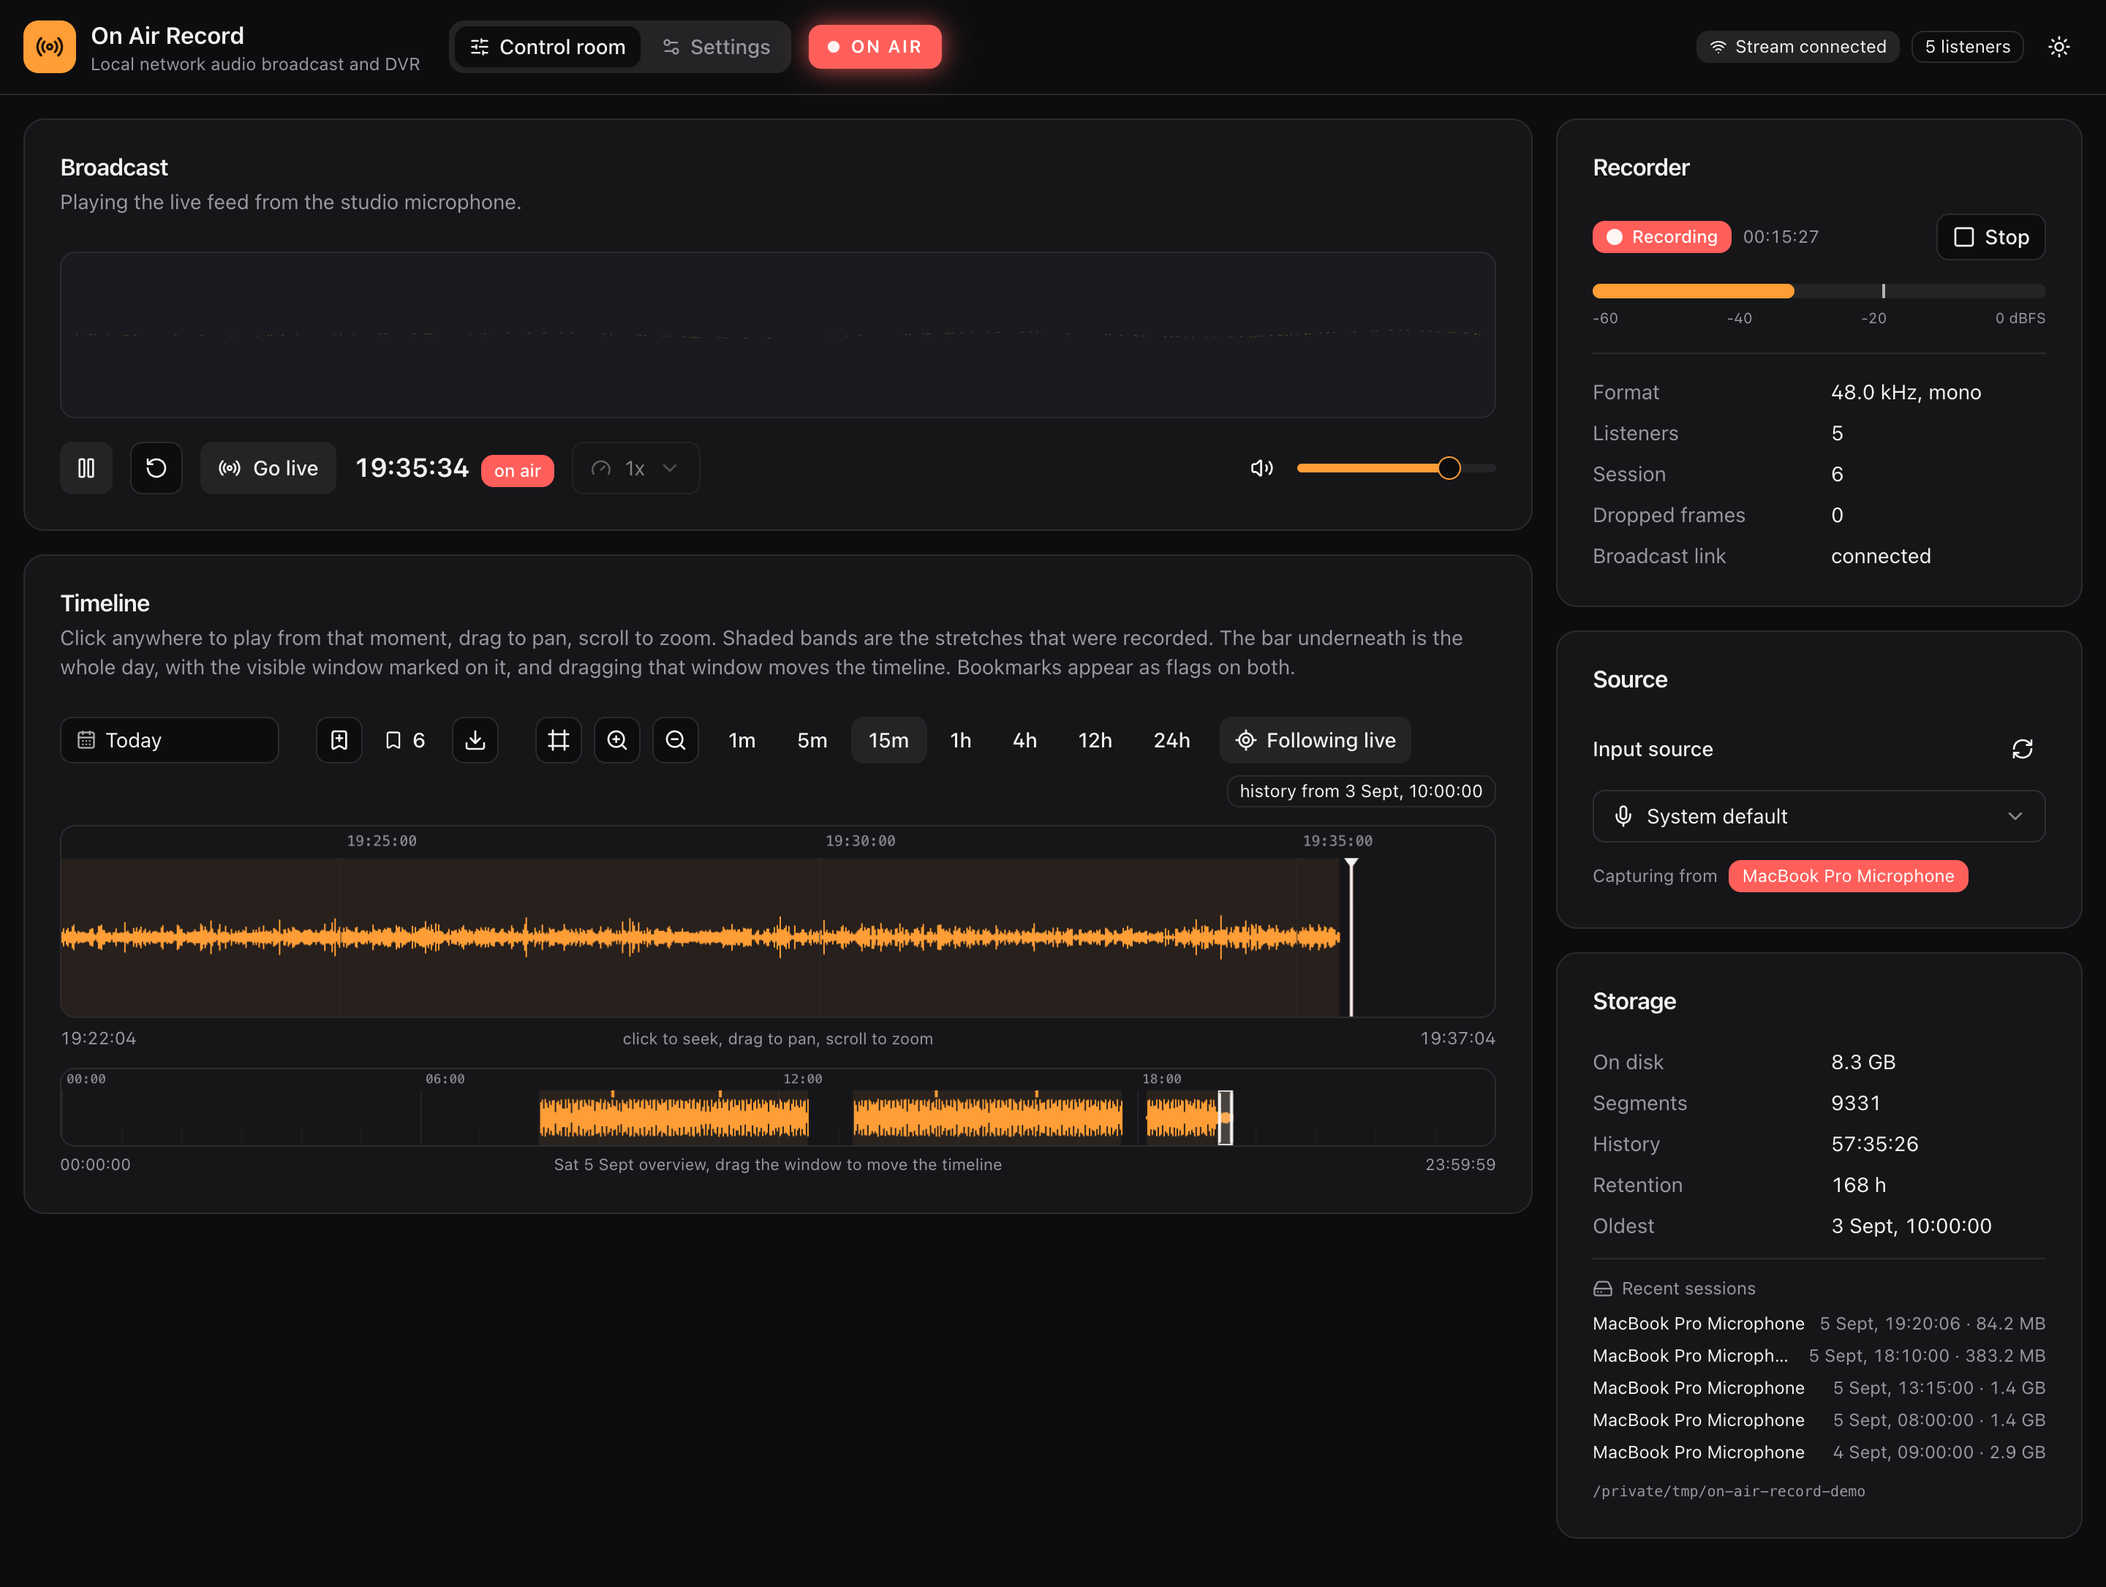
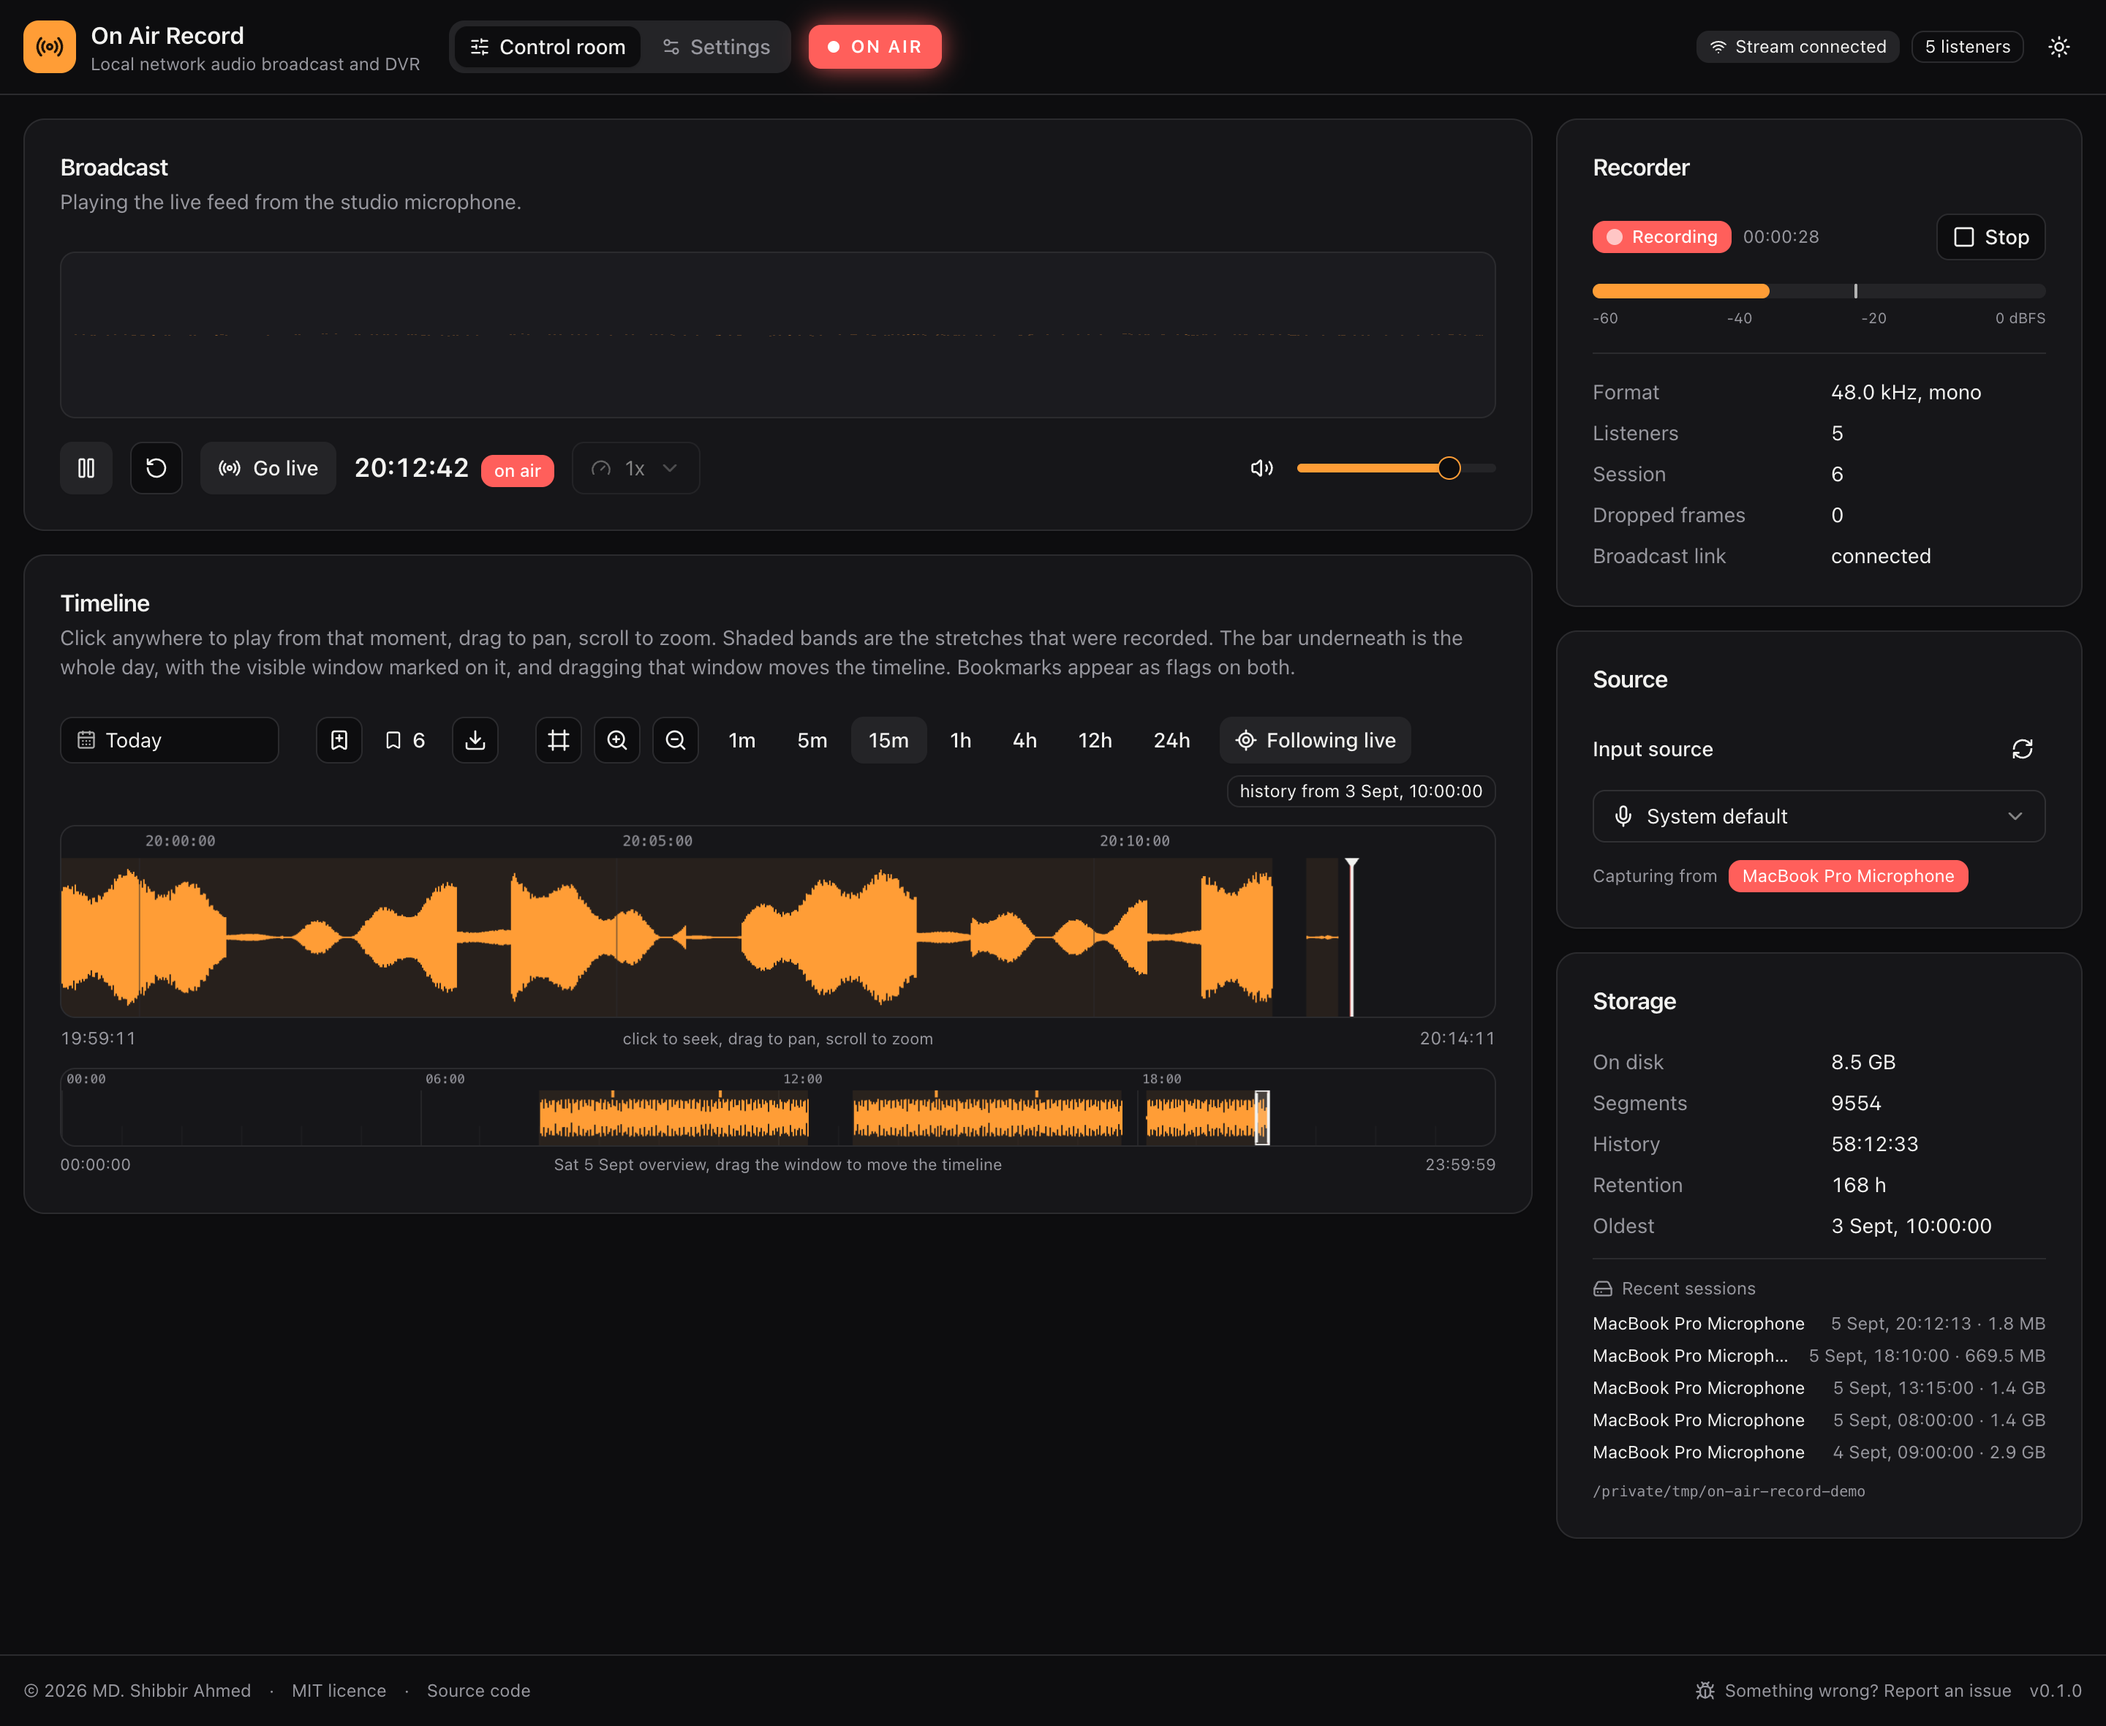
feat:[OAR-44] add attribution, licence and an issue link to the UI and the docs
A footer strip now runs along the bottom of every page: copyright and a link to the author's portfolio,
the licence, a link to the source, a link to the issue tracker, and the running version.

The version is there rather than behind a dialogue because it is the first thing any bug report needs and
this is the page the reporter already has open. It comes from the health endpoint, fetched once through
the status store rather than polled, since it cannot change without the process restarting. The shell
became a flex column with a growing outlet so the strip sits at the bottom of a short page instead of
floating half way up it, and the issue link only pushes right once there is room for a single row, or a
wrapped footer on a phone would right align its whole second line.

A LICENSE file now exists. The README claimed MIT with nothing to back it. It is included in every release
archive alongside the README, and both package manifests gained the author, licence, repository and issue
tracker metadata that was missing.

README, the user guide and the setup guide each gained a section on where to report a problem and what to
put in the report, and a credits section. The four screenshots the footer appears in were recaptured, and
a close up of the strip itself was added to the user guide.

diff --git a/frontend/src/components/AppFooter.tsx b/frontend/src/components/AppFooter.tsx
@@ -1,0 +1,69 @@
+/**
+ * Attribution, licence, and where to report a fault.
+ *
+ * The version is here rather than hidden in a dialogue because it is the first thing anybody asks for in a
+ * bug report, and this is the page the reporter already has open.
+ */
+
+import { Bug } from 'lucide-react';
+import { useEffect } from 'react';
+
+import { useStatusStore } from '@/store/useStatusStore';
+
+const AUTHOR = 'MD. Shibbir Ahmed';
+const PORTFOLIO_URL = 'https://shibbirweb.github.io';
+const REPOSITORY_URL = 'https://github.com/shibbirweb/on-air-record';
+const ISSUES_URL = `${REPOSITORY_URL}/issues`;
+
+/** Resolved once at load. The page is never open long enough for a new year to matter. */
+const YEAR = new Date().getFullYear();
+
+const LINK = 'hover:text-foreground underline-offset-4 transition-colors hover:underline';
+
+export function AppFooter() {
+  const version = useStatusStore((state) => state.version);
+  const loadVersion = useStatusStore((state) => state.loadVersion);
+
+  // Once, not polled: the version cannot change without the process restarting, which drops the socket
+  // and reloads the page anyway.
+  useEffect(() => {
+    void loadVersion();
+  }, [loadVersion]);
+
+  return (
+    <footer className="mt-2 border-t">
+      <div className="text-muted-foreground mx-auto flex max-w-[1600px] flex-wrap items-center gap-x-3 gap-y-1 px-4 py-4 text-xs">
+        <span>
+          &copy; {YEAR}{' '}
+          <a href={PORTFOLIO_URL} target="_blank" rel="noreferrer noopener" className={LINK}>
+            {AUTHOR}
+          </a>
+        </span>
+
+        <span aria-hidden="true">&middot;</span>
+        <span>MIT licence</span>
+
+        <span aria-hidden="true">&middot;</span>
+        <a href={REPOSITORY_URL} target="_blank" rel="noreferrer noopener" className={LINK}>
+          Source code
+        </a>
+
+        <a
+          href={ISSUES_URL}
+          target="_blank"
+          rel="noreferrer noopener"
+          className={`${LINK} flex items-center gap-1.5 sm:ml-auto`}
+        >
+          <Bug className="size-3.5" />
+          Something wrong? Report an issue
+        </a>
+
+        {version !== null && (
+          <span className="tabular" title="The version to quote in a bug report">
+            v{version}
+          </span>
+        )}
+      </div>
+    </footer>
+  );
+}

diff --git a/frontend/src/components/AppShell.tsx b/frontend/src/components/AppShell.tsx
@@ -9,6 +9,7 @@
 import { Radio, Settings2, SlidersHorizontal, Wifi, WifiOff } from 'lucide-react';
 import { NavLink, Outlet, useOutletContext } from 'react-router';
 
+import { AppFooter } from '@/components/AppFooter';
 import { OnAirSign } from '@/components/OnAirSign';
 import { Badge } from '@/components/ui/badge';
 import { Button } from '@/components/ui/button';
@@ -56,7 +57,7 @@ export function AppShell() {
   const onAir = capturing && playing && mode === 'live';
 
   return (
-    <div className="bg-background min-h-screen">
+    <div className="bg-background flex min-h-screen flex-col">
       <header className="bg-background/85 sticky top-0 z-20 border-b backdrop-blur">
         <div className="mx-auto flex max-w-[1600px] flex-wrap items-center gap-3 px-4 py-3">
           <div className="flex items-center gap-2.5">
@@ -112,7 +113,13 @@ export function AppShell() {
         </div>
       </header>
 
-      <Outlet context={{ engine, playheadMs } satisfies AppOutletContext} />
+      {/* The shell is a column and the page grows, so the footer sits at the bottom of a short page
+          rather than floating half way up it. */}
+      <div className="flex-1">
+        <Outlet context={{ engine, playheadMs } satisfies AppOutletContext} />
+      </div>
+
+      <AppFooter />
     </div>
   );
 }

diff --git a/frontend/src/store/useStatusStore.ts b/frontend/src/store/useStatusStore.ts
@@ -13,16 +13,20 @@ import type { ServiceStatus } from '@/api/types';
 
 type StatusState = {
   status: ServiceStatus | null;
+  /** Build version, from the health endpoint. Fixed for the life of the process, so it is fetched once. */
+  version: string | null;
   reachable: boolean;
   error: string | null;
   busy: boolean;
   refresh: () => Promise<void>;
+  loadVersion: () => Promise<void>;
   startCapture: () => Promise<void>;
   stopCapture: () => Promise<void>;
 };
 
 export const useStatusStore = create<StatusState>((set) => ({
   status: null,
+  version: null,
   reachable: false,
   error: null,
   busy: false,
@@ -38,6 +42,16 @@ export const useStatusStore = create<StatusState>((set) => ({
         reachable: false,
         error: cause instanceof ApiError ? cause.message : 'the service is unreachable',
       });
+    }
+  },
+
+  loadVersion: async () => {
+    try {
+      const health = await api.health();
+      set({ version: health.version });
+    } catch {
+      // Not worth surfacing. The version is a convenience for bug reports, and the status poll already
+      // tells the user when the service is unreachable.
     }
   },
 

diff --git a/docs/USER_GUIDE.md b/docs/USER_GUIDE.md
@@ -46,6 +46,8 @@ running it on macOS, Linux and Windows.
 - [On a phone or a tablet](#on-a-phone-or-a-tablet)
 - [Dark mode](#dark-mode)
 - [Questions and problems](#questions-and-problems)
+- [Reporting a problem](#reporting-a-problem)
+- [Credits](#credits)
 
 ## Opening it
 
@@ -93,6 +95,9 @@ The narrow right column is what you glance at occasionally:
 - **Recorder** shows whether it is still recording and how loud the microphone is.
 - **Source** is which microphone it is listening to.
 - **Storage** is how much disk has been used.
+
+Along the bottom of every page is a strip with the licence, a link to the source code, a link for
+reporting a problem, and the version number.
 
 ## The top bar
 
@@ -441,3 +446,26 @@ recording for everybody.
 **Can I listen from outside the building?**
 Not as it stands. The service is designed for a local network and has no authentication, so it should not
 be exposed to the internet directly. Ask whoever administers it about a VPN.
+
+## Reporting a problem
+
+There is a link at the bottom of every page:
+
+![The footer strip, with the copyright, the licence, a source code link, a report an issue link and the version number](https://raw.githubusercontent.com/shibbirweb/on-air-record/master/docs/images/user-guide/footer.png)
+
+If something does not work, or the guide is wrong, open an issue:
+
+**https://github.com/shibbirweb/on-air-record/issues**
+
+Please include:
+
+- What you did, what you expected, and what happened instead.
+- Your operating system, and the version number from that same strip, `v0.1.0` above.
+- Anything the program printed in its window or log at the time.
+
+## Credits
+
+On Air Record is built and maintained by **MD. Shibbir Ahmed**
+([portfolio](https://shibbirweb.github.io), [GitHub](https://github.com/shibbirweb)).
+
+Released under the [MIT licence](https://github.com/shibbirweb/on-air-record/blob/master/LICENSE). Copyright (c) 2026 MD. Shibbir Ahmed.

diff --git a/docs/SETUP.md b/docs/SETUP.md
@@ -30,6 +30,8 @@ Nothing has to be installed on the listening devices.
 - [Building from source](#building-from-source)
 - [Publishing a release](#publishing-a-release)
 - [Setup problems](#setup-problems)
+- [Reporting a problem](#reporting-a-problem)
+- [Credits](#credits)
 
 ## What you need
 
@@ -544,3 +546,22 @@ above.
 **Recordings older than a day or two keep vanishing.**
 That is the retention window doing its job, and it defaults to 24 hours. Raise it on the settings page,
 and look at the storage estimate there before you do.
+
+## Reporting a problem
+
+If something does not work, or the guide is wrong, open an issue:
+
+**https://github.com/shibbirweb/on-air-record/issues**
+
+Please include:
+
+- What you did, what you expected, and what happened instead.
+- Your operating system, and the version number shown in the bottom right corner of the app.
+- Anything the program printed in its window or log at the time.
+
+## Credits
+
+On Air Record is built and maintained by **MD. Shibbir Ahmed**
+([portfolio](https://shibbirweb.github.io), [GitHub](https://github.com/shibbirweb)).
+
+Released under the [MIT licence](https://github.com/shibbirweb/on-air-record/blob/master/LICENSE). Copyright (c) 2026 MD. Shibbir Ahmed.

diff --git a/README.md b/README.md
@@ -28,6 +28,8 @@ through every part of the interface with screenshots.
 - [Testing](#testing)
 - [Documentation](#documentation)
 - [Troubleshooting](#troubleshooting)
+- [Reporting a problem](#reporting-a-problem)
+- [Author](#author)
 - [License](#license)
 
 ## Highlights
@@ -374,6 +376,24 @@ The two most common first run problems:
 
 [docs/DEVELOPMENT.md](docs/DEVELOPMENT.md) has the rest.
 
+## Reporting a problem
+
+Bugs, questions and suggestions all go to the issue tracker:
+
+**https://github.com/shibbirweb/on-air-record/issues**
+
+A useful report says what you did, what you expected, what happened instead, your operating system, and
+the version shown in the bottom right corner of the app. Run with `--log-level debug` and include the
+output if the problem is in the audio path.
+
+## Author
+
+**MD. Shibbir Ahmed**, Senior Full Stack and AI Engineer.
+
+- Portfolio: <https://shibbirweb.github.io>
+- GitHub: <https://github.com/shibbirweb>
+- Source: <https://github.com/shibbirweb/on-air-record>
+
 ## License
 
-MIT
+[MIT](LICENSE). Copyright (c) 2026 MD. Shibbir Ahmed.
